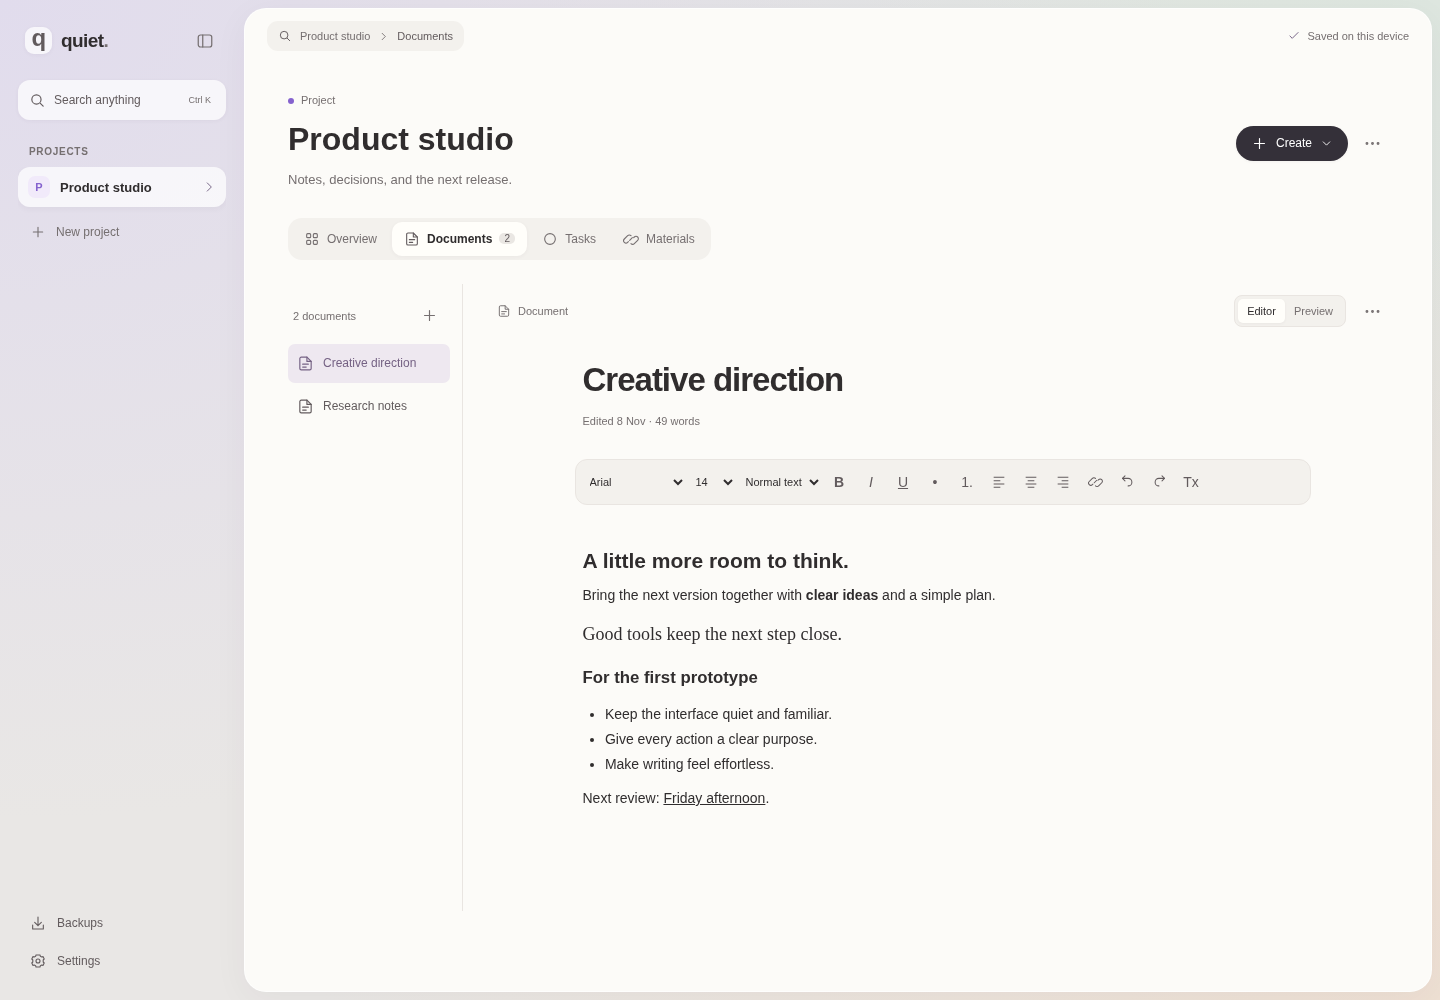
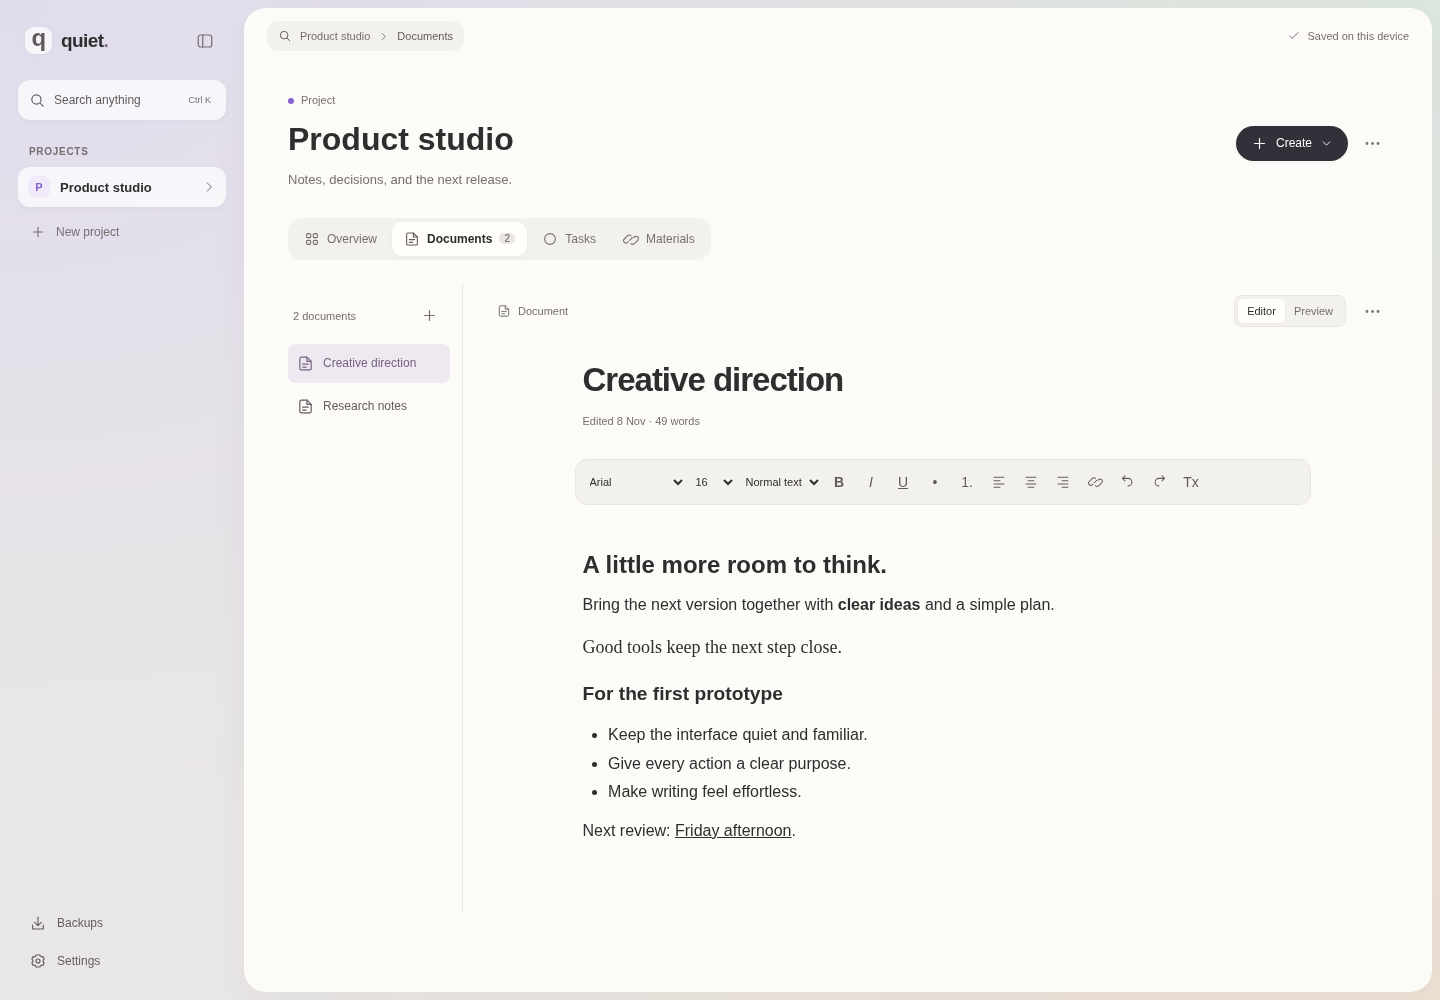
Keep editor font sizes consistent before and after reload

Changed region(s): [[0.4062, 0.558, 0.7188, 0.837]]

diff --git a/tests/editor-context.spec.ts b/tests/editor-context.spec.ts
@@ -216,3 +216,28 @@ test('documents, tasks and materials expose rename and delete through right-clic
   await page.getByRole('button', { name: 'Undo', exact: true }).click();
   await expect(page.locator('.material-row')).toContainText('renamed.txt');
 });
+
+test('font sizes keep the same visible size after reloading', async ({ page }) => {
+  await start(page);
+  await doc(page);
+  const content = page.getByRole('textbox', { name: 'Document content' });
+  await content.fill('Stable font size');
+  for (const [option, pixels] of [
+    ['2', '13px'],
+    ['3', '16px'],
+  ] as const) {
+    await selectText(page);
+    await page.getByRole('combobox', { name: 'Text size' }).selectOption(option);
+    await expect
+      .poll(() =>
+        content
+          .locator('font,span')
+          .last()
+          .evaluate((element) => getComputedStyle(element).fontSize),
+      )
+      .toBe(pixels);
+    await saved(page);
+    await page.reload();
+    await expect(content.locator(`span[style*="${pixels}"]`).last()).toHaveCSS('font-size', pixels);
+  }
+});

diff --git a/src/documentHtml.ts b/src/documentHtml.ts
@@ -1,7 +1,7 @@
 import DOMPurify from 'dompurify';
 import type { Document } from './model';
 export const fonts = ['Arial', 'Georgia', 'Verdana', 'Courier New'] as const;
-const sizes = ['10px', '12px', '14px', '18px', '24px', '32px', '48px'];
+const sizes = ['10px', '13px', '16px', '18px', '24px', '32px', '48px'];
 export function cleanHtml(value: string): string {
   const fragment = DOMPurify.sanitize(value, {
     RETURN_DOM_FRAGMENT: true,
@@ -43,7 +43,7 @@ export function cleanHtml(value: string): string {
       element.tagName === 'FONT'
         ? sizes[Number(element.getAttribute('size')) - 1]
         : element.style.fontSize;
-    if (sizes.includes(size)) style.fontSize = size;
+    if ([...sizes, '12px', '14px'].includes(size)) style.fontSize = size;
     if (['left', 'center', 'right'].includes(element.style.textAlign))
       style.textAlign = element.style.textAlign;
     if (['bold', '700'].includes(element.style.fontWeight)) style.fontWeight = 'bold';

diff --git a/src/RichEditor.tsx b/src/RichEditor.tsx
@@ -131,7 +131,7 @@ export default function RichEditor({
             command('fontSize', e.target.value);
           }}
         >
-          {[10, 12, 14, 18, 24, 32, 48].map((value, index) => (
+          {[10, 13, 16, 18, 24, 32, 48].map((value, index) => (
             <option key={value} value={index + 1}>
               {value}
             </option>

diff --git a/src/styles.css b/src/styles.css
@@ -2477,7 +2477,7 @@ kbd {
   padding: 6px 0 30px;
   line-height: 1.8;
   font-family: Arial, sans-serif;
-  font-size: 14px;
+  font-size: 16px;
   overflow-wrap: anywhere;
 }
 .rich-content p,
